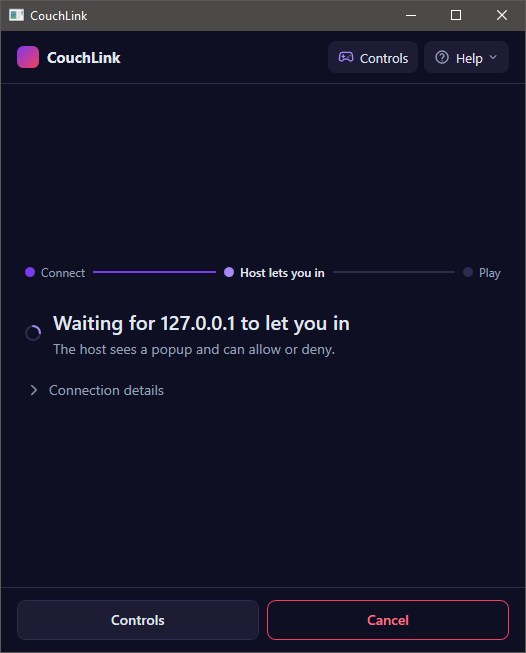
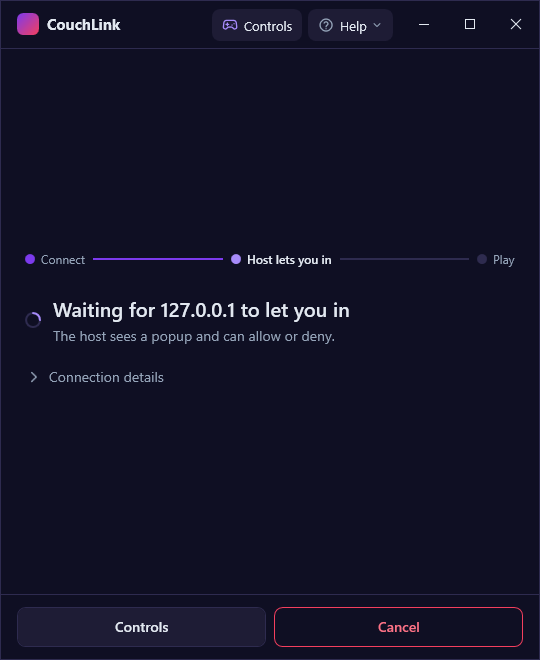
docs: window chrome in the spec, new screenshots and gate checks

diff --git a/docs/superpowers/specs/2026-10-09-couchlink-ui-ux-revamp-design.md b/docs/superpowers/specs/2026-10-09-couchlink-ui-ux-revamp-design.md
@@ -69,7 +69,7 @@ identity colors in `PlayerColors`.
 
 | Token | Hex | Use |
 |---|---|---|
-| `Chrome` | `#0B0B1A` | Title bar caption color (Windows 11) |
+| `Chrome` | `#0B0B1A` | Caption color of the native crash dialog (Windows 11) |
 | `Background` | `#0F0F23` | Window background |
 | `Input` | `#16152B` | Text box, combo box fill |
 | `Card` | `#1E1C35` | Cards, secondary buttons, header buttons |
@@ -90,6 +90,8 @@ identity colors in `PlayerColors`.
 | `DangerFill` | `#F43F5E` | Filled danger button (white text) |
 | `Warning` | `#FBBF24` | Warning text, Reconnecting pill text |
 | `Success` | `#4ADE80` | Live pill text |
+| `CaptionCloseHover` | `#E81123` | Close button fill on hover |
+| `CaptionCloseGlyphHover` | `#FFFFFF` | Close glyph on hover |
 
 Banner and pill fills:
 
@@ -167,11 +169,60 @@ styles that are not brushes use `StaticResource`.
 
 ### 3.7 Window chrome
 
-Every window keeps the native title bar so snapping, resizing and the system
-menu work as usual. `WindowTheme.Apply(Window)` sets
-`DWMWA_USE_IMMERSIVE_DARK_MODE` (Windows 10 20H1 and later) and, on
-Windows 11, `DWMWA_CAPTION_COLOR` to `Chrome`. If either call fails the
-window keeps the light title bar; nothing else depends on it.
+The native title bar is replaced with the app's own, so the top of every
+window matches the theme. `WindowTheme.UseCustomChrome(window, captionHeight)`
+sets a `System.Windows.Shell.WindowChrome` on the window. `WindowStyle` stays
+as it is, so the window is still a normal window: drag by the bar to move,
+double-click to maximize or restore, Aero Snap, Win+arrows, resizing from the
+edges where the window is resizable, Alt+Space and a right-click on the bar
+for the system menu. `UseAeroCaptionButtons` is off and `CornerRadius` is 0.
+`GlassFrameThickness` is `0,0,0,1`: that keeps the DWM drop shadow without a
+white or glass line on any edge. `ResizeBorderThickness` is the system value
+for resizable windows and 0 for `NoResize` ones.
+
+**Main window.** `AppHeader` is the title bar, one bar 48 px tall
+(`CaptionHeight` 48). Left to right: logo and "CouchLink" (the drag area),
+empty drag space, Controls, Help, then the caption buttons, flush with the
+window's right edge and as tall as the bar. Controls and Help set
+`WindowChrome.IsHitTestVisibleInChrome` so they stay clickable; the logo and
+title do not, so they drag. The bar keeps its bottom border line.
+
+**Secondary windows.** The Controls editor, `ThemedDialog` and
+`SaveProfileDialog` get a 32 px `TitleBar` (`CaptionHeight` 32): the window's
+`Title` on the left (12 px, `TextMuted`), caption buttons on the right, and
+the same bottom border line. All three are `NoResize`, so they show only
+Close. `CrashDialog` and `ApprovalPopup` are not touched. The crash dialog
+keeps the native title bar because it must open even if the theme fails to
+load.
+
+**Caption buttons.** `CaptionButtons` is used by both bars. Each button is
+46 px wide, stretches to the bar height and is never focusable (Alt+Space
+covers the keyboard). Minimize and Maximize/Restore hide on `NoResize`;
+`CanMinimize` shows Minimize but not Maximize. The glyphs are 10×10 paths
+with a 1 px stroke in `Text`, not an icon font. Maximize swaps to Restore
+(two overlapping squares) while the window is maximized, and its automation
+name follows ("Maximize" or "Restore"). Minimize and Maximize get the
+`HoverOverlay` at 8% on hover. Close turns red on hover with a white glyph
+(`CaptionCloseHover`, `CaptionCloseGlyphHover`). Automation ids are
+`CaptionMinimize`, `CaptionMaximize` and `CaptionClose`. The Windows 11 Snap
+Layouts flyout does not appear on our Maximize button, because it belongs to
+the native button.
+
+**Frame.** On Windows 11 (build 22000 and later) `UseCustomChrome` asks DWM
+for rounded corners (`DWMWA_WINDOW_CORNER_PREFERENCE` = round). On Windows 10
+it draws a 1 px `Border` line around the window content instead. The window
+keeps its DWM shadow on both.
+
+**Maximize padding.** A maximized `WindowChrome` window reaches past the
+screen by the frame Windows no longer draws. While maximized, the content
+gets no border and is padded by `SM_CXSIZEFRAME + SM_CXPADDEDBORDER`
+(and the Y equivalents) at the window's DPI, in device-independent units.
+The padding updates on `StateChanged` and `DpiChanged`. A maximized window
+stops at the work area, so the taskbar stays visible.
+
+`WindowTheme.Apply` still sets `DWMWA_USE_IMMERSIVE_DARK_MODE` and, on Windows
+11, `DWMWA_CAPTION_COLOR`. They no longer show on the windows above and are
+harmless; they still apply to the crash dialog.
 
 ## 4. Components
 
@@ -380,11 +431,12 @@ src/CouchLink.App/
     Icons.xaml             Geometry resources
     ThemeManager.cs        merges the dictionaries in code (so animation
                            durations can be set first), follows High Contrast
-    WindowTheme.cs         window background, font, dark title bar (DWM)
+    WindowTheme.cs         window background, font, custom chrome (WindowChrome, DWM)
     Motion.cs              the screen and toast enter animation
   Ui/
     ThemeProps.cs  Glyph  PlayerChip  KeyCap  StatusPill  Banner
     StepTracker  Spinner  AppHeader.xaml(.cs)  ThemedDialog.xaml(.cs)
+    CaptionButtons.xaml(.cs)  TitleBar.xaml(.cs)
     PlayerColors.cs
   Presentation/            the logic classes below
   Views/                   Start, HostLobby, JoinList, Session (rewritten XAML)
@@ -425,7 +477,7 @@ src/CouchLink.App/
   and a `Name`. A screenshot script (in `eng/`) launches the built app,
   drives each screen through UI Automation and saves PNGs, which replace the
   ones in `docs/images/`.
-- Manual check on Windows 10 and 11: dark title bar, High Contrast on and off,
+- Manual check on Windows 10 and 11: custom title bar, High Contrast on and off,
   animations off, keyboard-only navigation through Start, Join and the
   Controls editor, Ctrl+Alt+C over the game, two approval toasts stacked,
   and keys typed in the game never pressing a button on the Session screen.

diff --git a/docs/gate-results.md b/docs/gate-results.md
@@ -122,7 +122,7 @@ PCs / Windows builds: <fill in>
 
 | Check | Result |
 |---|---|
-| Windows 10 and 11: every window has the dark title bar; Windows 11 shows the navy caption color | <pass/fail> |
+| Windows 10 and 11: every window has the dark custom title bar: Minimize, Maximize and Close where it can resize, Close alone on the dialogs; Close turns red on hover | <pass/fail> |
 | Windows High Contrast on while CouchLink runs: every screen switches to system colors at once and stays readable; off again: back to the dark theme | <pass/fail> |
 | "Show animations in Windows" off: screen changes, toasts and button hovers are instant; the spinners stand still | <pass/fail> |
 | Keyboard only: Tab reaches Host a game, Join a game, Controls, Help; the purple focus ring shows; Enter presses; the Help menu opens and works with arrows | <pass/fail> |
@@ -134,3 +134,10 @@ PCs / Windows builds: <fill in>
 | Join by address with "192.168": the error shows under the box and nothing connects | <pass/fail> |
 | `--crash-test=ui` and `--crash-test=startup`: the themed crash dialog opens with its four buttons working | <pass/fail> |
 | 125% and 150% display scaling: nothing clipped on Start, the lobby with 9 players, the join list, the editor with Labels on | <pass/fail> |
+| Drag by the title bar moves the window; double-click on it maximizes and restores | <pass/fail> |
+| Aero Snap: drag to the left, right and top edges, and Win+arrow keys | <pass/fail> |
+| Resize the main window from every edge and corner | <pass/fail> |
+| Maximize on a second monitor and on a monitor with the taskbar on the side: nothing cut off, taskbar visible | <pass/fail> |
+| Alt+Space and a right-click on the bar open the system menu | <pass/fail> |
+| Windows 11: rounded corners and shadow; Windows 10: 1 px border and shadow | <pass/fail> |
+| 125% and 150% scaling: caption buttons and bar height scale cleanly | <pass/fail> |
